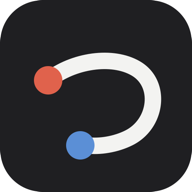
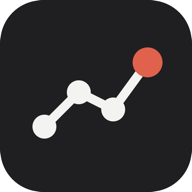
v0.4.1：マークを「グラフとつながり」に変更

Changed region(s): [[0.1562, 0.2188, 0.875, 0.8438]]

diff --git a/js/versions.js b/js/versions.js
@@ -1,5 +1,6 @@
 // 版の履歴（新しい順）。CHANGELOG.md と合わせる
 export const VERSIONS = [
+  { v: "v0.4.1", date: "2026-10-28", note: "マークを「グラフとつながり」（折れ線の点がつながり、最後が赤）に変更" },
   { v: "v0.4.0", date: "2026-10-28", note: "マークを「つ」でつなぐ形に。今日の画面は要点だけ→タップでくわしく。経済用語をタップすると意味が出る（用語集134語＋その日の用語）" },
   { v: "v0.3.0", date: "2026-10-28", note: "予定とシナリオ・答え合わせ・流れ・見方が分かれている点・週のまとめ。つながり図の「たどる」表示、新しい内容と新しい版の知らせ、相場と逆向きのつながりの注記" },
   { v: "v0.2.0", date: "2026-10-28", note: "GitHub Pages で公開。Mac が朝・昼・夕に自動でニュースを集めて読み解き、公開版を更新する" },

diff --git a/index.html b/index.html
@@ -24,7 +24,7 @@
 <header class="top">
   <div class="wrap">
     <div class="brand">
-      <svg viewBox="96 120 352 304" aria-hidden="true"><path d="M128 214 C196 160 300 146 362 182 C432 222 420 330 344 368 C306 387 262 392 232 388" fill="none" stroke="currentColor" stroke-width="44" stroke-linecap="round"/><circle cx="128" cy="214" r="40" fill="var(--up)"/><circle cx="214" cy="388" r="40" fill="var(--down)"/></svg>
+      <svg viewBox="78 118 364 260" aria-hidden="true"><polyline points="118,338 210,246 302,292 394,166" fill="none" stroke="currentColor" stroke-width="28" stroke-linejoin="round" stroke-linecap="round"/><circle cx="118" cy="338" r="36" fill="currentColor"/><circle cx="210" cy="246" r="36" fill="currentColor"/><circle cx="302" cy="292" r="36" fill="currentColor"/><circle cx="394" cy="166" r="44" fill="var(--up)"/></svg>
       経済のつながり
     </div>
     <div class="stamp" id="stamp"></div>

diff --git a/sw.js b/sw.js
@@ -1,5 +1,5 @@
 // いつも新しい内容を取りに行き（ネットがあれば最新）、つながらないときだけ手元に保存した分を出す
-const CACHE = "keizai-v0.4.0";
+const CACHE = "keizai-v0.4.1";
 const SHELL = ["./", "index.html", "css/app.css", "js/app.js", "js/graph.js", "js/versions.js", "data/graph.json", "data/glossary.json", "data/latest.json", "manifest.webmanifest", "icons/mark.svg"];
 self.addEventListener("install", e => {
   e.waitUntil(caches.open(CACHE).then(c => c.addAll(SHELL.map(u => new Request(u, { cache: "reload" })))).then(() => self.skipWaiting()));

diff --git a/css/app.css b/css/app.css
@@ -341,7 +341,7 @@ button.card { display: block; width: 100%; text-align: left; }
 .trail .filter { height: 28px; font-size: 12px; margin-left: 6px; }
 
 /* ---------- v0.4.0：わかりやすさの整理と、用語のタップ説明 ---------- */
-.brand svg { width: 24px; height: 21px; }
+.brand svg { width: 25px; height: 18px; }
 /* 用語：点線の下線。タップで意味 */
 .term { border-bottom: 1.5px dotted var(--ink-3); cursor: pointer; padding-bottom: 0; }
 .term:active { background: var(--surface-2); }

diff --git a/AGENTS.md b/AGENTS.md
@@ -14,3 +14,4 @@
 - **v0.3.0（2026-10-28 本人指示「修正から直す」「改善案は E と G 以外を実行」）**：予定とシナリオ（A）・答え合わせ（B）・流れ（C）・見方が分かれている点（D）・週のまとめ（F）を入れた。E（関心のある項目を選ぶ）と G（自分の予想メモ）は本人が不要とした。
 - 公開ページの読み取りで、相手が機械を断っている所（米労働省など）や、規約で機械の読み取りを禁じている所（YouTube の動画一覧ページ）は使わない。YouTube は公式の Data API（キーは Mac の `~/Library/Application Support/keizai-app/youtube_api_key`、リポジトリに入れない）。
 - **v0.4.0（2026-10-28 本人指示）**：①マーク変更（4案を見比べて「つ」でつなぐ形 H2 を採用。見比べ画像は `_work/mark/compare.svg.png`、ほかの案 B 波紋・C グラフも同じ場所）。②「いろんなこと書かれすぎていて逆に分からない。情報が多いのはいいが、わかりやすく」→ 一覧は要点だけ、くわしくはタップ、の形に。新しく情報を足すときも、一覧に全部並べず、詳細（下から出るシート）に入れる。③用語のタップ説明（`gl()` で点線。同じ画面では最初の1回だけ点線にするため、HTML は表示の順に組み立てる。ボタンの中の文章には点線を付けない）。
+- **マーク（2026-10-28 本人が選択）**：C「グラフとつながり」（`_work/mark/c.svg`）。H2「つ」でつなぐ形は本人が別の案を希望したので外した。

diff --git a/CHANGELOG.md b/CHANGELOG.md
@@ -1,5 +1,8 @@
 # 版の履歴
 
+## v0.4.1（2026-10-28）
+- マークを本人の選んだ C「グラフとつながり」（折れ線グラフの点がつながり、最後の点が赤）に変更。画面上部のロゴも同じ形に。
+
 ## v0.4.0（2026-10-28）
 - マークを変更：「つ」の字の線で、赤（上がる）から青（下がる）へつなぐ形。画面上部のロゴも同じ形に。
 - わかりやすさの整理：今日の画面は、テーマを「ひとことで」とつながりだけの一覧にし、くわしい中身（何が起きた？・どうつながる？・この先どうなるかも・次に見るもの・識者・元のニュース）はタップで開く。予定も1行ずつの一覧からタップで2通りのシナリオへ。はじめての人向けの「読み方」を1回だけ出す。
